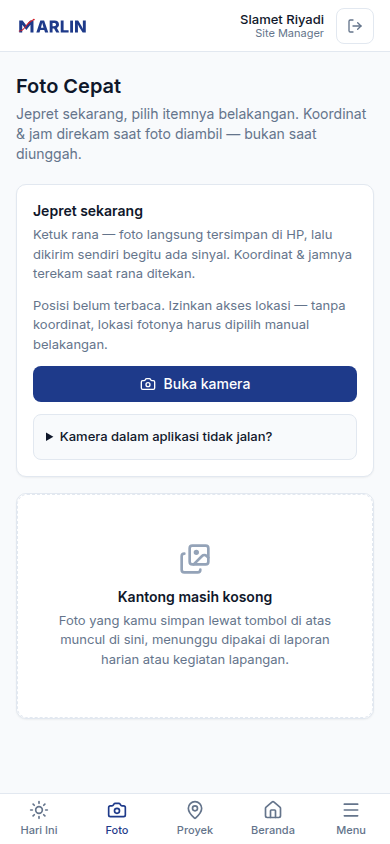
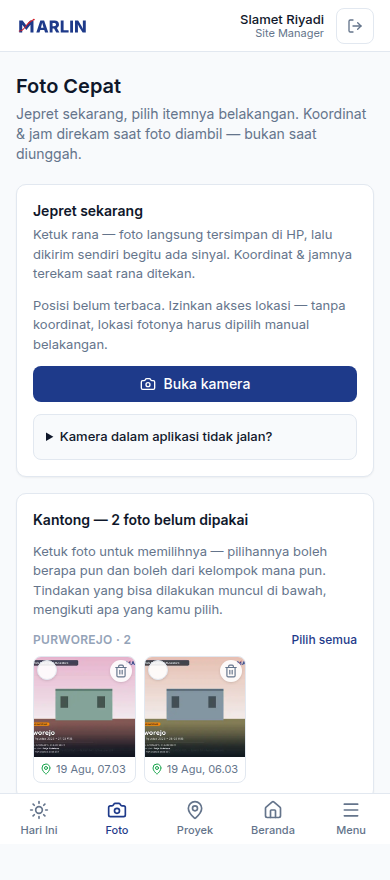
Bab lapangan lengkap: isi laporan + koreksi, gambar dijepret ulang
Bab lapangan (01-lapangan.md) ditulis sampai lengkap: masuk, Hari Ini,
isi laporan harian langkah demi langkah, laporan dikembalikan/koreksi,
Foto Cepat, ringkasan lokasi, rencana mingguan. Dua gambar baru
(harian-isi, harian-koreksi) + seluruh gambar dijepret ulang dengan
seed manual (Purworejo) dari komit sebelumnya.

Dua bug di penjepret ketahuan lewat verifikasi visual (bukan cuma
pesan "berhasil"): race condition memilih lokasi contoh (evaluateAll
tidak auto-wait seperti getAttribute), dan tautan "Perbaiki laporan"
pertama di DOM ternyata milik Kedung Mutih (-99,9%) bukan Purworejo —
sempat lolos ke gambar sebelum diperiksa mata. Keduanya diperbaiki.

DECISIONS 367.

diff --git a/scripts/manual/tangkap.ts b/scripts/manual/tangkap.ts
@@ -38,24 +38,53 @@ async function masuk(page: Page, peran: PeranPotret): Promise<void> {
  * Lokasi & paket contoh diambil DARI APLIKASI, bukan ditulis tetap di skrip.
  *
  * Slug yang di-hardcode akan diam-diam salah begitu seed berubah, dan gejalanya
- * berupa halaman 404 yang tetap terpotret sebagai gambar "berhasil".
+ * berupa halaman 404 yang tetap terpotret sebagai gambar "berhasil". Karena itu
+ * `LOKASI_WAJAR` di bawah bukan dipakai buta — hanya dipilih kalau BENAR-BENAR
+ * muncul di daftar lokasi live milik peran yang sedang memotret; kalau tidak
+ * ada (mis. `pnpm manual:seed` belum dijalankan), jatuh ke lokasi pertama apa
+ * adanya, sama seperti sebelumnya.
  */
+const LOKASI_WAJAR = "purworejo"; // DECISIONS 366 — progres wajar, bukan darurat kritis
 async function contohLokasi(page: Page): Promise<string> {
   await page.goto(`${BASE}/lokasi`, { waitUntil: "domcontentloaded" });
-  const href = await page
-    .locator('a[href^="/lokasi/"]')
-    .first()
-    .getAttribute("href", { timeout: 15_000 });
-  const slug = href?.split("/")[2];
-  if (!slug) throw new Error("Tidak menemukan satu pun lokasi contoh di /lokasi.");
-  return slug;
+  // MarlinGrid (AG Grid) merender baris SESUDAH hidrasi klien — `domcontentloaded`
+  // sering menang duluan, dan tautan lokasinya belum ada sama sekali di DOM.
+  await page.locator('a[href^="/lokasi/"]').first().waitFor({ timeout: 15_000 });
+  const hrefs = await page.locator('a[href^="/lokasi/"]').evaluateAll((els) => els.map((e) => e.getAttribute("href")));
+  const slugs = hrefs.map((h) => h?.split("/")[2]).filter((s): s is string => Boolean(s));
+  if (slugs.length === 0) throw new Error("Tidak menemukan satu pun lokasi contoh di /lokasi.");
+  return slugs.includes(LOKASI_WAJAR) ? LOKASI_WAJAR : slugs[0]!;
+}
+
+/** Tanggal kerja hari ini di Asia/Jakarta — SAMA persis dengan yang dipakai server. */
+function hariIniJakarta(): string {
+  return new Intl.DateTimeFormat("en-CA", { timeZone: "Asia/Jakarta", year: "numeric", month: "2-digit", day: "2-digit" }).format(
+    new Date(),
+  );
 }
 
 async function jepret(page: Page, g: Gambar, lokasi: string): Promise<void> {
-  const url = `${BASE}${g.path.replace("{lokasi}", lokasi)}`;
+  const url = `${BASE}${g.path.replace("{lokasi}", lokasi).replace("{hari}", hariIniJakarta())}`;
   const res = await page.goto(url, { waitUntil: "domcontentloaded" });
   if (res && res.status() >= 400) {
     throw new Error(`${g.id}: ${url} menjawab ${res.status()}`);
+  }
+  if (g.viaLinkText) {
+    // Beberapa lokasi bisa sama-sama punya tautan ini di satu halaman (mis.
+    // /hari-ini menumpuk satu kartu per lokasi yang ditugaskan ke peran ini) —
+    // ambil yang hrefnya menuju LOKASI CONTOH yang sedang dipotret, bukan
+    // yang pertama ketemu di DOM (bisa saja milik lokasi lain).
+    await page.getByRole("link", { name: new RegExp(g.viaLinkText) }).first().waitFor({ timeout: 15_000 });
+    const semua = await page.getByRole("link", { name: new RegExp(g.viaLinkText) }).evaluateAll((els) => els.map((e) => e.getAttribute("href")));
+    const href = semua.find((h) => h?.includes(`/lokasi/${lokasi}/`));
+    if (!href) {
+      throw new Error(
+        `${g.id}: tautan "${g.viaLinkText}" menuju lokasi "${lokasi}" tidak ditemukan di ${url} ` +
+          `(yang ada: ${semua.join(", ") || "tidak ada sama sekali"}) — cek data seed manual.`,
+      );
+    }
+    const res2 = await page.goto(`${BASE}${href}`, { waitUntil: "domcontentloaded" });
+    if (res2 && res2.status() >= 400) throw new Error(`${g.id}: ${href} menjawab ${res2.status()}`);
   }
   if (g.tunggu) {
     await page.getByText(g.tunggu).first().waitFor({ timeout: 20_000 });
@@ -106,7 +135,7 @@ async function main(): Promise<void> {
     // Gambar tanpa sesi dipotret lebih dulu, di konteks yang benar-benar bersih.
     const tanpaSesi = daftar.filter((g) => g.tanpaSesi);
     if (tanpaSesi.length) {
-      const ctx = await browser.newContext({ viewport: UKURAN.layar });
+      const ctx = await browser.newContext({ viewport: UKURAN.layar, ignoreHTTPSErrors: true });
       const page = await ctx.newPage();
       for (const g of tanpaSesi) {
         await page.setViewportSize(UKURAN[g.lebar]);
@@ -123,7 +152,7 @@ async function main(): Promise<void> {
 
     const peranUnik = [...new Set(daftar.filter((g) => !g.tanpaSesi).map((g) => g.peran))];
     for (const peran of peranUnik) {
-      const ctx = await browser.newContext({ viewport: UKURAN.layar });
+      const ctx = await browser.newContext({ viewport: UKURAN.layar, ignoreHTTPSErrors: true });
       const page = await ctx.newPage();
       await masuk(page, peran);
       const lokasi = await contohLokasi(page);

diff --git a/scripts/manual/daftar-gambar.ts b/scripts/manual/daftar-gambar.ts
@@ -39,6 +39,17 @@ export type Gambar = {
   /** Gulir ke elemen ini dulu (untuk bagian yang jauh di bawah). */
   gulirKe?: string;
   /**
+   * Alih-alih memotret `path` langsung: buka `path`, lalu IKUTI tautan pertama
+   * yang teksnya cocok regex ini, dan potret halaman tujuannya.
+   *
+   * Dipakai saat URL sasaran tak bisa ditebak dari luar (mis. tanggal laporan
+   * "perlu koreksi" — beda tiap kali `pnpm manual:seed` dijalankan). Tautannya
+   * tetap diambil DARI APLIKASI (href sungguhan), bukan dihitung sendiri di
+   * skrip ini — kalau seedingnya berubah dan tautannya hilang, penjepretnya
+   * gagal keras, bukan diam-diam memotret halaman yang salah.
+   */
+  viaLinkText?: string;
+  /**
    * Dipotret TANPA sesi.
    *
    * Layar masuk hanya bisa dilihat oleh yang belum masuk — memotretnya sesudah
@@ -71,6 +82,25 @@ export const GAMBAR_LAPANGAN: Gambar[] = [
     peran: "sm-01",
     path: "/hari-ini",
     lebar: "ponsel",
+  },
+  {
+    id: "harian-isi",
+    keterangan:
+      "Mengisi laporan hari ini — pilih pekerjaan, isi volume yang selesai, lampirkan foto. Item yang sudah dicatat tampil di bawahnya.",
+    peran: "sm-01",
+    path: "/lokasi/{lokasi}/harian/{hari}",
+    lebar: "ponsel",
+    tunggu: "Tambah / ubah progres pekerjaan",
+  },
+  {
+    id: "harian-koreksi",
+    keterangan:
+      "Laporan yang dikembalikan SM untuk diperbaiki — alasannya tertulis jelas di sini, tinggal disunting sesuai catatan lalu dikirim ulang.",
+    peran: "sm-01",
+    path: "/hari-ini",
+    viaLinkText: "Perbaiki laporan",
+    lebar: "ponsel",
+    tunggu: "Laporan dikembalikan",
   },
   {
     id: "foto-cepat",

diff --git a/src/lib/seed/manual.ts b/src/lib/seed/manual.ts
@@ -80,9 +80,17 @@ async function r2PutLocal(key: string, body: Buffer, contentType: string): Promi
 }
 
 const DAY = 24 * 3600 * 1000;
-const dateOnly = (d: Date) => new Date(`${d.toISOString().slice(0, 10)}T00:00:00.000Z`);
+// Kalender Asia/Jakarta, BUKAN UTC — "hari ini" untuk laporan harian dinilai
+// dari jam WIB (`jakartaToday()`/`jakartaDateKey()` di `lib/format.ts`); dekat
+// tengah malam UTC keduanya bisa beda tanggal. Disalin di sini (bukan diimpor)
+// karena alasan yang sama dengan `currentWeekNumber`/`planPctAtWeek` di atas —
+// modul-modul itu tidak "server-only", tapi menyalin dua baris lebih murah
+// daripada menambah satu impor lagi hanya untuk fungsi sekecil ini.
+const jakartaDateKeyOf = (d: Date) =>
+  new Intl.DateTimeFormat("en-CA", { timeZone: "Asia/Jakarta", year: "numeric", month: "2-digit", day: "2-digit" }).format(d);
+const dateOnly = (d: Date) => new Date(`${jakartaDateKeyOf(d)}T00:00:00.000Z`);
 const daysFromNow = (n: number) => dateOnly(new Date(Date.now() + n * DAY));
-const dateKeyOf = (d: Date) => d.toISOString().slice(0, 10);
+const dateKeyOf = jakartaDateKeyOf;
 
 /**
  * Duplikat SENGAJA dari `src/lib/progress.ts` (`currentWeekNumber`/`planPctAtWeek`)

diff --git a/docs/manual/bab/01-lapangan.md b/docs/manual/bab/01-lapangan.md
@@ -30,13 +30,89 @@ Anda tidak perlu mencari lokasi Anda dari daftar. MARLIN hanya menampilkan lokas
 yang **ditugaskan** kepada Anda. Kalau halaman ini kosong padahal Anda merasa
 punya lokasi, hubungi admin — kemungkinan penugasan Anda belum dipasang.
 
-## 3. Foto Cepat — jepret dulu, urus belakangan
+Tombol besar di tiap kartu lokasi berubah sesuai keadaan:
+
+- **"Lapor Hari Ini"** — belum ada laporan untuk hari ini. Ketuk untuk mulai.
+- **"Lanjutkan Draft (N item)"** — Anda sudah mulai mengisi tapi belum dikirim.
+  Isian tersimpan otomatis, jadi aman ditinggal ke tengah hari kalau memang
+  belum sempat kelar.
+- **"Laporan hari ini: ..."** — laporan hari ini sudah dikirim. Tinggal
+  menunggu diperiksa Site Manager.
+
+Kalau ada laporan lama yang **dikembalikan untuk diperbaiki**, sebuah kotak kuning
+muncul di atas — lihat bagian 4.
+
+## 3. Mengisi laporan harian
+
+Ketuk lokasi Anda, lalu tombol "Lapor Hari Ini" (atau "Lanjutkan Draft"). Anda akan
+masuk ke satu halaman yang dipakai untuk **seluruh laporan hari itu** — isi
+sedikit demi sedikit, boleh berhenti dan lanjut kapan saja selama belum dikirim.
+
+{{gambar:harian-isi}}
+
+Langkah-langkahnya:
+
+1. **Cari pekerjaan.** Ketik nama atau kode pekerjaan di kotak pencarian
+   ("1 · Pekerjaan"). Hanya pekerjaan yang ada di RAB lokasi Anda yang muncul.
+2. **Isi volume yang selesai hari ini.** Bukan volume total — hanya bagian yang
+   BENAR-BENAR selesai hari ini. MARLIN sendiri yang menjumlahkannya dengan
+   hari-hari sebelumnya dan menampilkan kumulatifnya (mis. "41,172 / 50 m²
+   (82,3%)") di bawah nama pekerjaan.
+3. **Lampirkan foto** (bagian "3 · Foto bukti") — ambil langsung lewat Kamera,
+   pilih dari Galeri HP, atau pakai foto yang sudah dijepret lewat Foto Cepat
+   (bab 5). Foto boleh menyusul; volume tetap tersimpan tanpa foto.
+4. Ketuk **Simpan Progres**. Pekerjaan itu langsung muncul di daftar "Item hari
+   ini" di bawah — ulangi langkah 1-4 untuk pekerjaan lain yang dikerjakan hari
+   itu.
+5. Kalau ada masalah di lapangan hari itu (material telat, cuaca menghambat,
+   dsb.), catat lewat **Catat kendala** — jangan dipendam di kolom catatan
+   volume.
+6. Sesudah semua pekerjaan hari itu masuk, ketuk **Review & Kirim** di bagian
+   bawah. MARLIN akan bertanya sekali lagi apakah ada kendala, lalu laporan
+   berpindah status jadi "Dikirim" dan menunggu diperiksa Site Manager.
+
+Isian volume tersimpan di HP Anda sendiri sampai berhasil terkirim — sinyal
+putus-putus di tengah lapangan tidak akan menghilangkan yang sudah Anda ketik.
+
+Di bawah tombol Kirim ada bagian **"Pelengkap laporan KKP"** (cuaca, jam kerja,
+tenaga, material, alat) — ini biasanya diselesaikan Site Manager saat memeriksa
+laporan, bukan tugas wajib mandor tiap hari. Kalau Anda site manager dan sedang
+melengkapi bagian ini sendiri, isiannya sama saja: pilih yang sesuai, ketuk
+Simpan Pelengkap.
+
+## 4. Kalau laporan dikembalikan (perlu koreksi)
+
+Site Manager memeriksa setiap laporan yang masuk. Kalau ada yang perlu
+diperbaiki — foto kurang jelas, volume meragukan — laporan itu **dikembalikan**,
+bukan ditolak. Anda akan melihatnya di Hari Ini sebagai kotak kuning
+"N laporan dikembalikan — perlu koreksi", lengkap dengan tanggal dan alasannya.
+
+Ketuk tombol **"Perbaiki laporan ..."** (tanggalnya mengikuti laporan yang
+dimaksud) untuk membukanya. Alasan pengembaliannya
+tertulis jelas di atas formulir, supaya Anda tahu persis apa yang perlu diubah —
+bukan menebak-nebak.
+
+{{gambar:harian-koreksi}}
+
+Cara memperbaikinya **sama seperti mengisi laporan biasa** (bagian 3): ubah
+volume yang keliru, tambahkan foto yang diminta, atau lengkapi yang kurang.
+Pekerjaan yang sudah benar tidak perlu disentuh ulang. Sesudah selesai, ketuk
+**Review & Kirim** lagi — persis tombol yang sama dengan laporan baru — dan
+laporan itu kembali ke Site Manager untuk diperiksa ulang.
+
+Laporan yang sudah **Disetujui** pun masih bisa dikembalikan Site Manager kalau
+belakangan ditemukan kekeliruan. Prosesnya sama: perbaiki, kirim ulang.
+
+## 5. Foto Cepat — jepret dulu, urus belakangan
 
 Sering kali Anda sedang di tengah lapangan, tangan kotor, dan tidak sempat memilih
 item pekerjaan. **Foto Cepat** dibuat persis untuk itu: ambil fotonya sekarang,
 tentukan itu pekerjaan apa nanti.
 
 {{gambar:foto-cepat}}
+
+Foto yang belum dipakai menunggu di **Kantong** — pilih satu atau beberapa,
+lalu tempelkan ke pekerjaan yang sesuai lewat halaman isi laporan (bagian 3).
 
 Beberapa hal yang perlu Anda tahu tentang foto:
 
@@ -48,7 +124,7 @@ Beberapa hal yang perlu Anda tahu tentang foto:
 - Kalau jam pengambilan tidak diketahui, cap hanya menulis tanggalnya. Lebih baik
   kosong daripada salah.
 
-## 4. Lokasi Anda
+## 6. Lokasi Anda
 
 Dari Hari Ini, ketuk nama lokasi untuk membuka halaman lokasi. Bagian paling atas
 adalah ringkasan: nilai kontrak, periode, rencana, realisasi, dan deviasi.
@@ -56,15 +132,19 @@ adalah ringkasan: nilai kontrak, periode, rencana, realisasi, dan deviasi.
 {{gambar:lokasi-ringkasan}}
 
 **Deviasi** adalah selisih antara realisasi dan rencana. Angka negatif berarti
-tertinggal dari jadwal. Angka ini dihitung sistem dari laporan harian yang masuk —
-tidak ada yang mengetiknya manual.
+tertinggal dari jadwal, angka positif berarti lebih cepat. Angka ini dihitung
+sistem dari laporan harian yang masuk — tidak ada yang mengetiknya manual, dan
+tidak akan berubah kalau Anda tidak melapor.
 
-## 5. Rencana Mingguan
+## 7. Rencana Mingguan
 
-Tab **Rencana & RAB → Rencana Mingguan** berisi target volume tiap pekerjaan untuk
+Tab **Rencana & RAB → Rencana** berisi target volume tiap pekerjaan untuk
 minggu ini, berdampingan dengan realisasi yang sudah Anda laporkan.
 
 {{gambar:rencana-mingguan}}
 
 Inilah tempat Anda melihat apakah minggu ini akan tercapai atau tidak — dan
-sekaligus menyusun rencananya bersama Site Manager.
+sekaligus menyusun rencananya bersama Site Manager. Angka **PPC** di bagian
+atas adalah rekap minggu LALU: dari target yang dijanjikan, berapa yang
+benar-benar tuntas. Target yang belum tercapai penuh bukan aib — itu justru
+bahan bicara di rapat mingguan, supaya minggu berikutnya lebih realistis.

diff --git a/docs/DECISIONS.md b/docs/DECISIONS.md
@@ -17450,3 +17450,50 @@ item/laporan), 2 rencana mingguan (minggu lalu terikat realisasi nyata, minggu
 ini target maju), 2 kendala (satu berjalan, satu selesai + `RecoveryUpdate`),
 8 foto sungguhan (cap Timemark asli ter-render, diperiksa visual) lewat
 `mock-r2.ts`.
+
+---
+
+## 367 — Bab lapangan lengkap + dua bug penjepret buku manual (2026-08-19)
+
+Lanjutan 366: sesudah Purworejo jadi lokasi contoh wajar, `pnpm manual:tangkap`
+dijalankan ulang dan bab lapangan (`docs/manual/bab/01-lapangan.md`) ditulis
+sampai lengkap — 7 layar: masuk, Hari Ini, isi laporan harian (langkah demi
+langkah), laporan dikembalikan/koreksi, Foto Cepat, ringkasan lokasi, rencana
+mingguan. Dua gambar baru: `harian-isi` dan `harian-koreksi`.
+
+### Bug: race condition memilih lokasi contoh
+
+`contohLokasi()` di `tangkap.ts` tadinya `.locator(...).first().getAttribute("href",
+{timeout})` — `getAttribute` dengan timeout MENUNGGU elemennya ada. Diganti ke
+`.evaluateAll()` (perlu SEMUA href, bukan cuma yang pertama) supaya bisa memilih
+lokasi wajar secara eksplisit — tapi `evaluateAll()` TIDAK menunggu apa pun,
+langsung mengeksekusi. `/lokasi` memakai MarlinGrid (AG Grid) yang merender baris
+SESUDAH hidrasi klien, jadi `domcontentloaded` sering menang duluan dan baris
+grid-nya belum ada. Gejalanya: "Tidak menemukan satu pun lokasi contoh di /lokasi"
+walau lokasinya nyata ada (dibuktikan dengan skrip debug Playwright terpisah yang
+menambahkan `waitForTimeout` dan berhasil). Diperbaiki dengan `.first().waitFor()`
+eksplisit sebelum `evaluateAll()`. Pelajaran: `evaluateAll`/`$$eval` tidak
+auto-wait seperti method locator lain — kalau butuh SEMUA elemen (bukan cuma
+elemen pertama yang auto-wait), tunggu dulu secara eksplisit.
+
+### Bug: tautan pertama belum tentu milik lokasi yang benar
+
+`viaLinkText` (mekanisme baru: ikuti tautan yang teksnya cocok, dipakai untuk
+"Perbaiki laporan {tanggal}" yang URL-nya tak bisa ditebak) awalnya ambil
+`.first()` tautan yang match. Di `/hari-ini`, sm-01 melihat DUA kartu lokasi
+(Kedung Mutih dari seed dev — masih darurat, DAN Purworejo dari seed manual) —
+keduanya sama-sama punya laporan "perlu koreksi", jadi tautan PERTAMA di DOM
+ternyata milik Kedung Mutih. Hasilnya: `harian-koreksi.png` sempat memotret
+lencana **-99,9%** — persis masalah yang seluruh pekerjaan ini coba hindari.
+Ketahuan karena gambarnya diperiksa visual (bukan cuma dipercaya "berhasil"),
+sesuai prinsip 365. Diperbaiki: ambil SEMUA tautan yang cocok, filter yang
+hrefnya mengandung `/lokasi/<lokasi-contoh>/`, dan GAGAL KERAS (bukan jatuh ke
+tautan pertama) kalau lokasi contoh itu sendiri tidak punya tautannya.
+
+### Penjaga
+
+`pnpm typecheck && pnpm lint && pnpm vitest run tests/unit` hijau. `pnpm
+manual:tangkap` penuh (11 gambar) + `pnpm manual:bangun` sukses, dan SELURUH 24
+halaman PDF diperiksa visual satu per satu (bukan cuma pesan sukses) — termasuk
+menemukan sisa `{tanggal}` mentah di naskah (placeholder yang lupa dijelaskan
+ulang jadi teks biasa) dan bug tautan pertama di atas.

diff --git a/docs/manual/README.md b/docs/manual/README.md
@@ -95,9 +95,15 @@ tsx scripts/manual/mock-r2.ts 9444 /tmp/mock-r2/data <cert.pem> <key.pem>
 
 ## Yang belum selesai
 
-- [ ] Bab lapangan: mengisi laporan harian langkah demi langkah, alur koreksi
-      (`perlu_koreksi` → perbaiki → kirim ulang), dan chat WhatsApp.
-- [ ] Bab manajemen: keuangan, laporan periodik KKP, RAPL, AI.
+- [x] Bab lapangan (DECISIONS 367): masuk, Hari Ini, isi laporan harian langkah
+      demi langkah, alur koreksi (`perlu_koreksi` → perbaiki → kirim ulang),
+      Foto Cepat, ringkasan lokasi, rencana mingguan. Chat WhatsApp belum —
+      belum ada gambar/bagian untuk itu.
+- [ ] Bab manajemen: keuangan, laporan periodik KKP, RAPL, AI. Kerangka
+      (Beranda/Progress/Kurva-S) sudah, tapi Beranda memotret PORTOFOLIO —
+      lokasi selain Purworejo (dari seed dev, belum didandani) masih tampil
+      deviasi ~-99%. Perlu diputuskan: dandani lokasi lain juga, atau batasi
+      Beranda contoh ke tangkapan lokasi tunggal.
 - [ ] Daftar isi otomatis + nomor halaman per bab.
-- [ ] Pertimbangkan ukuran repo: 9 gambar = 1,3 MB. Buku penuh (60+ layar) bisa
+- [ ] Pertimbangkan ukuran repo: 11 gambar ≈ 1,7 MB. Buku penuh (60+ layar) bisa
       10–20 MB, dan tumbuh tiap kali UI berubah.
